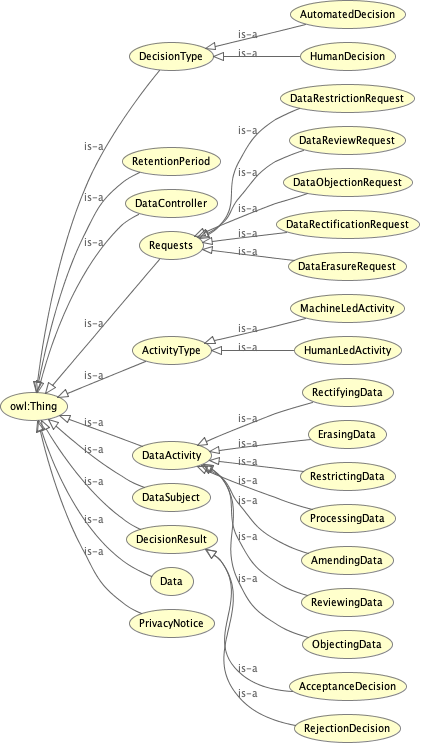
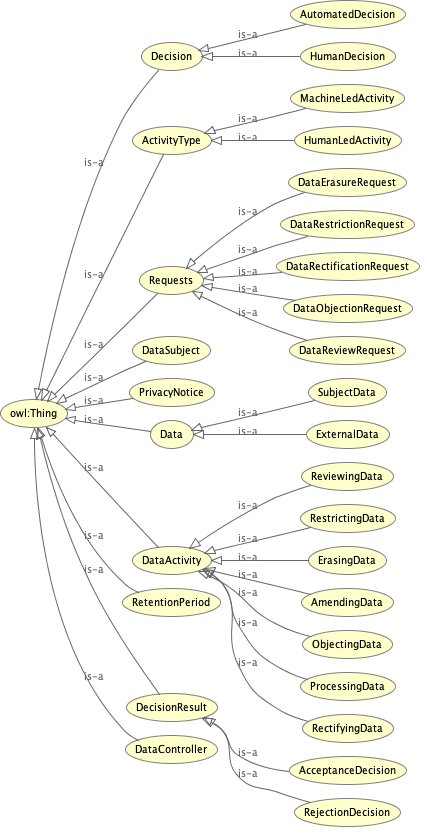
Added two terms and renamed decision

diff --git a/sections/crossref-en.html b/sections/crossref-en.html
@@ -45,13 +45,16 @@ This section provides details for each class and property defined by Plead.
          <a href="#DataSubject" title="https://www.w3.org/ns/plead#DataSubject">Data Subject</a>
       </li>
       <li>
+         <a href="#Decision" title="https://www.w3.org/ns/plead#Decision">Decision</a>
+      </li>
+      <li>
          <a href="#DecisionResult" title="https://www.w3.org/ns/plead#DecisionResult">Decision Result</a>
       </li>
       <li>
-         <a href="#DecisionType" title="https://www.w3.org/ns/plead#DecisionType">Decision Type</a>
+         <a href="#ErasingData" title="https://www.w3.org/ns/plead#ErasingData">Erasing</a>
       </li>
       <li>
-         <a href="#ErasingData" title="https://www.w3.org/ns/plead#ErasingData">Erasing</a>
+         <a href="#ExternalData" title="https://www.w3.org/ns/plead#ExternalData">External Data</a>
       </li>
       <li>
          <a href="#HumanDecision" title="https://www.w3.org/ns/plead#HumanDecision">Human Decision</a>
@@ -88,6 +91,9 @@ This section provides details for each class and property defined by Plead.
       </li>
       <li>
          <a href="#ReviewingData" title="https://www.w3.org/ns/plead#ReviewingData">Reviewing</a>
+      </li>
+      <li>
+         <a href="#SubjectData" title="https://www.w3.org/ns/plead#SubjectData">Subject Data</a>
       </li>
    </ul>
    <div class="entity" id="AcceptanceDecision">
@@ -186,7 +192,7 @@ This class is subclass to
       <dl class="description">
          <dt>has super-classes</dt>
          <dd>
-            <a href="#DecisionType" title="https://www.w3.org/ns/plead#DecisionType">Decision Type</a>
+            <a href="#Decision" title="https://www.w3.org/ns/plead#Decision">Decision</a>
             <sup class="type-c" title="class">c</sup>
          </dd>
          <dt>is disjoint with</dt>
@@ -218,6 +224,14 @@ This class is equivalent to
          <dt>Is defined by</dt>
          <dd>
             <a href="https://www.w3.org/ns/plead#">https://www.w3.org/ns/plead#</a>
+         </dd>
+      </dl>
+      <dl class="description">
+         <dt>has sub-classes</dt>
+         <dd>
+            <a href="#ExternalData" title="https://www.w3.org/ns/plead#ExternalData">External Data</a>
+            <sup class="type-c" title="class">c</sup>, <a href="#SubjectData" title="https://www.w3.org/ns/plead#SubjectData">Subject Data</a>
+            <sup class="type-c" title="class">c</sup>
          </dd>
       </dl>
    </div>
@@ -425,6 +439,35 @@ This class is equivalent to
          </dd>
       </dl>
    </div>
+   <div class="entity" id="Decision">
+      <h3>Decision<sup class="type-c" title="class">c</sup>
+         <span class="backlink"> back to <a href="#toc">ToC</a> or <a href="#classes">Class ToC</a>
+         </span>
+      </h3>
+      <p>
+         <strong>IRI:</strong> https://www.w3.org/ns/plead#Decision</p>
+      <div class="comment">
+         <span class="markdown">The type of process done to reach resolution reached after consideration.
+
+This class is subclass to 
+**prov:** 
+            [prov:Entity](http://www.w3.org/ns/prov#Entity)</span>
+      </div>
+      <dl class="definedBy">
+         <dt>Is defined by</dt>
+         <dd>
+            <a href="https://www.w3.org/ns/plead#">https://www.w3.org/ns/plead#</a>
+         </dd>
+      </dl>
+      <dl class="description">
+         <dt>has sub-classes</dt>
+         <dd>
+            <a href="#AutomatedDecision" title="https://www.w3.org/ns/plead#AutomatedDecision">Automated Decision</a>
+            <sup class="type-c" title="class">c</sup>, <a href="#HumanDecision" title="https://www.w3.org/ns/plead#HumanDecision">Human Decision</a>
+            <sup class="type-c" title="class">c</sup>
+         </dd>
+      </dl>
+   </div>
    <div class="entity" id="DecisionResult">
       <h3>Decision Result<sup class="type-c" title="class">c</sup>
          <span class="backlink"> back to <a href="#toc">ToC</a> or <a href="#classes">Class ToC</a>
@@ -450,35 +493,6 @@ This class is subclass to
          <dd>
             <a href="#AcceptanceDecision" title="https://www.w3.org/ns/plead#AcceptanceDecision">Acceptance Decision</a>
             <sup class="type-c" title="class">c</sup>, <a href="#RejectionDecision" title="https://www.w3.org/ns/plead#RejectionDecision">Rejection Decision</a>
-            <sup class="type-c" title="class">c</sup>
-         </dd>
-      </dl>
-   </div>
-   <div class="entity" id="DecisionType">
-      <h3>Decision Type<sup class="type-c" title="class">c</sup>
-         <span class="backlink"> back to <a href="#toc">ToC</a> or <a href="#classes">Class ToC</a>
-         </span>
-      </h3>
-      <p>
-         <strong>IRI:</strong> https://www.w3.org/ns/plead#DecisionType</p>
-      <div class="comment">
-         <span class="markdown">The type of process done to reach resolution reached after consideration.
-
-This class is subclass to 
-**prov:** 
-            [prov:Entity](http://www.w3.org/ns/prov#Entity)</span>
-      </div>
-      <dl class="definedBy">
-         <dt>Is defined by</dt>
-         <dd>
-            <a href="https://www.w3.org/ns/plead#">https://www.w3.org/ns/plead#</a>
-         </dd>
-      </dl>
-      <dl class="description">
-         <dt>has sub-classes</dt>
-         <dd>
-            <a href="#AutomatedDecision" title="https://www.w3.org/ns/plead#AutomatedDecision">Automated Decision</a>
-            <sup class="type-c" title="class">c</sup>, <a href="#HumanDecision" title="https://www.w3.org/ns/plead#HumanDecision">Human Decision</a>
             <sup class="type-c" title="class">c</sup>
          </dd>
       </dl>
@@ -511,6 +525,30 @@ This class is equivalent to
          </dd>
       </dl>
    </div>
+   <div class="entity" id="ExternalData">
+      <h3>External Data<sup class="type-c" title="class">c</sup>
+         <span class="backlink"> back to <a href="#toc">ToC</a> or <a href="#classes">Class ToC</a>
+         </span>
+      </h3>
+      <p>
+         <strong>IRI:</strong> https://www.w3.org/ns/plead#ExternalData</p>
+      <div class="comment">
+         <span class="markdown">Data belonging to a DataSubject and under the control of the DataController.</span>
+      </div>
+      <dl class="definedBy">
+         <dt>Is defined by</dt>
+         <dd>
+            <a href="https://www.w3.org/ns/plead#">https://www.w3.org/ns/plead#</a>
+         </dd>
+      </dl>
+      <dl class="description">
+         <dt>has super-classes</dt>
+         <dd>
+            <a href="#Data" title="https://www.w3.org/ns/plead#Data">Data</a>
+            <sup class="type-c" title="class">c</sup>
+         </dd>
+      </dl>
+   </div>
    <div class="entity" id="HumanDecision">
       <h3>Human Decision<sup class="type-c" title="class">c</sup>
          <span class="backlink"> back to <a href="#toc">ToC</a> or <a href="#classes">Class ToC</a>
@@ -530,7 +568,7 @@ This class is equivalent to
       <dl class="description">
          <dt>has super-classes</dt>
          <dd>
-            <a href="#DecisionType" title="https://www.w3.org/ns/plead#DecisionType">Decision Type</a>
+            <a href="#Decision" title="https://www.w3.org/ns/plead#Decision">Decision</a>
             <sup class="type-c" title="class">c</sup>
          </dd>
          <dt>is disjoint with</dt>
@@ -812,6 +850,30 @@ This class is subclass to
          <dt>has super-classes</dt>
          <dd>
             <a href="#DataActivity" title="https://www.w3.org/ns/plead#DataActivity">Data Activity</a>
+            <sup class="type-c" title="class">c</sup>
+         </dd>
+      </dl>
+   </div>
+   <div class="entity" id="SubjectData">
+      <h3>Subject Data<sup class="type-c" title="class">c</sup>
+         <span class="backlink"> back to <a href="#toc">ToC</a> or <a href="#classes">Class ToC</a>
+         </span>
+      </h3>
+      <p>
+         <strong>IRI:</strong> https://www.w3.org/ns/plead#SubjectData</p>
+      <div class="comment">
+         <span class="markdown">Data provided to a DataController from a third party (that is not the Data Subject)</span>
+      </div>
+      <dl class="definedBy">
+         <dt>Is defined by</dt>
+         <dd>
+            <a href="https://www.w3.org/ns/plead#">https://www.w3.org/ns/plead#</a>
+         </dd>
+      </dl>
+      <dl class="description">
+         <dt>has super-classes</dt>
+         <dd>
+            <a href="#Data" title="https://www.w3.org/ns/plead#Data">Data</a>
             <sup class="type-c" title="class">c</sup>
          </dd>
       </dl>

diff --git a/sections/overview-en.html b/sections/overview-en.html
@@ -45,13 +45,16 @@ This ontology has the following classes and properties.</span>
       <a href="#DataSubject" title="https://www.w3.org/ns/plead#DataSubject">Data Subject</a>
    </li>
    <li>
+      <a href="#Decision" title="https://www.w3.org/ns/plead#Decision">Decision</a>
+   </li>
+   <li>
       <a href="#DecisionResult" title="https://www.w3.org/ns/plead#DecisionResult">Decision Result</a>
    </li>
    <li>
-      <a href="#DecisionType" title="https://www.w3.org/ns/plead#DecisionType">Decision Type</a>
+      <a href="#ErasingData" title="https://www.w3.org/ns/plead#ErasingData">Erasing</a>
    </li>
    <li>
-      <a href="#ErasingData" title="https://www.w3.org/ns/plead#ErasingData">Erasing</a>
+      <a href="#ExternalData" title="https://www.w3.org/ns/plead#ExternalData">External Data</a>
    </li>
    <li>
       <a href="#HumanDecision" title="https://www.w3.org/ns/plead#HumanDecision">Human Decision</a>
@@ -88,5 +91,8 @@ This ontology has the following classes and properties.</span>
    </li>
    <li>
       <a href="#ReviewingData" title="https://www.w3.org/ns/plead#ReviewingData">Reviewing</a>
+   </li>
+   <li>
+      <a href="#SubjectData" title="https://www.w3.org/ns/plead#SubjectData">Subject Data</a>
    </li>
 </ul>

diff --git a/index.html b/index.html
@@ -6,7 +6,7 @@
 
 
 <!-- SCHEMA.ORG METADATA -->
-<script type="application/ld+json">{"@context":"https://schema.org","@type":"TechArticle","url":"https://www.w3.org/ns/plead","image":"http://vowl.visualdataweb.org/webvowl/#iri=https://www.w3.org/ns/plead","name":"https://www.w3.org/ns/plead", "headline":"Vocablary used by the Explanation tool in PLEADA visualised Image of Vocablary![Plead](Plead.png)", "datePublished":"Thu Mar 25 15:40:07 GMT 2021"}</script>
+<script type="application/ld+json">{"@context":"https://schema.org","@type":"TechArticle","url":"https://www.w3.org/ns/plead","image":"http://vowl.visualdataweb.org/webvowl/#iri=https://www.w3.org/ns/plead","name":"https://www.w3.org/ns/plead", "headline":"Vocablary used by the Explanation tool in PLEADA visualised Image of Vocablary![Plead](Plead.png)", "datePublished":"Fri Mar 26 16:11:31 GMT 2021"}</script>
 
 <script src="resources/jquery.js"></script> 
 <script src="resources/marked.min.js"></script> 
